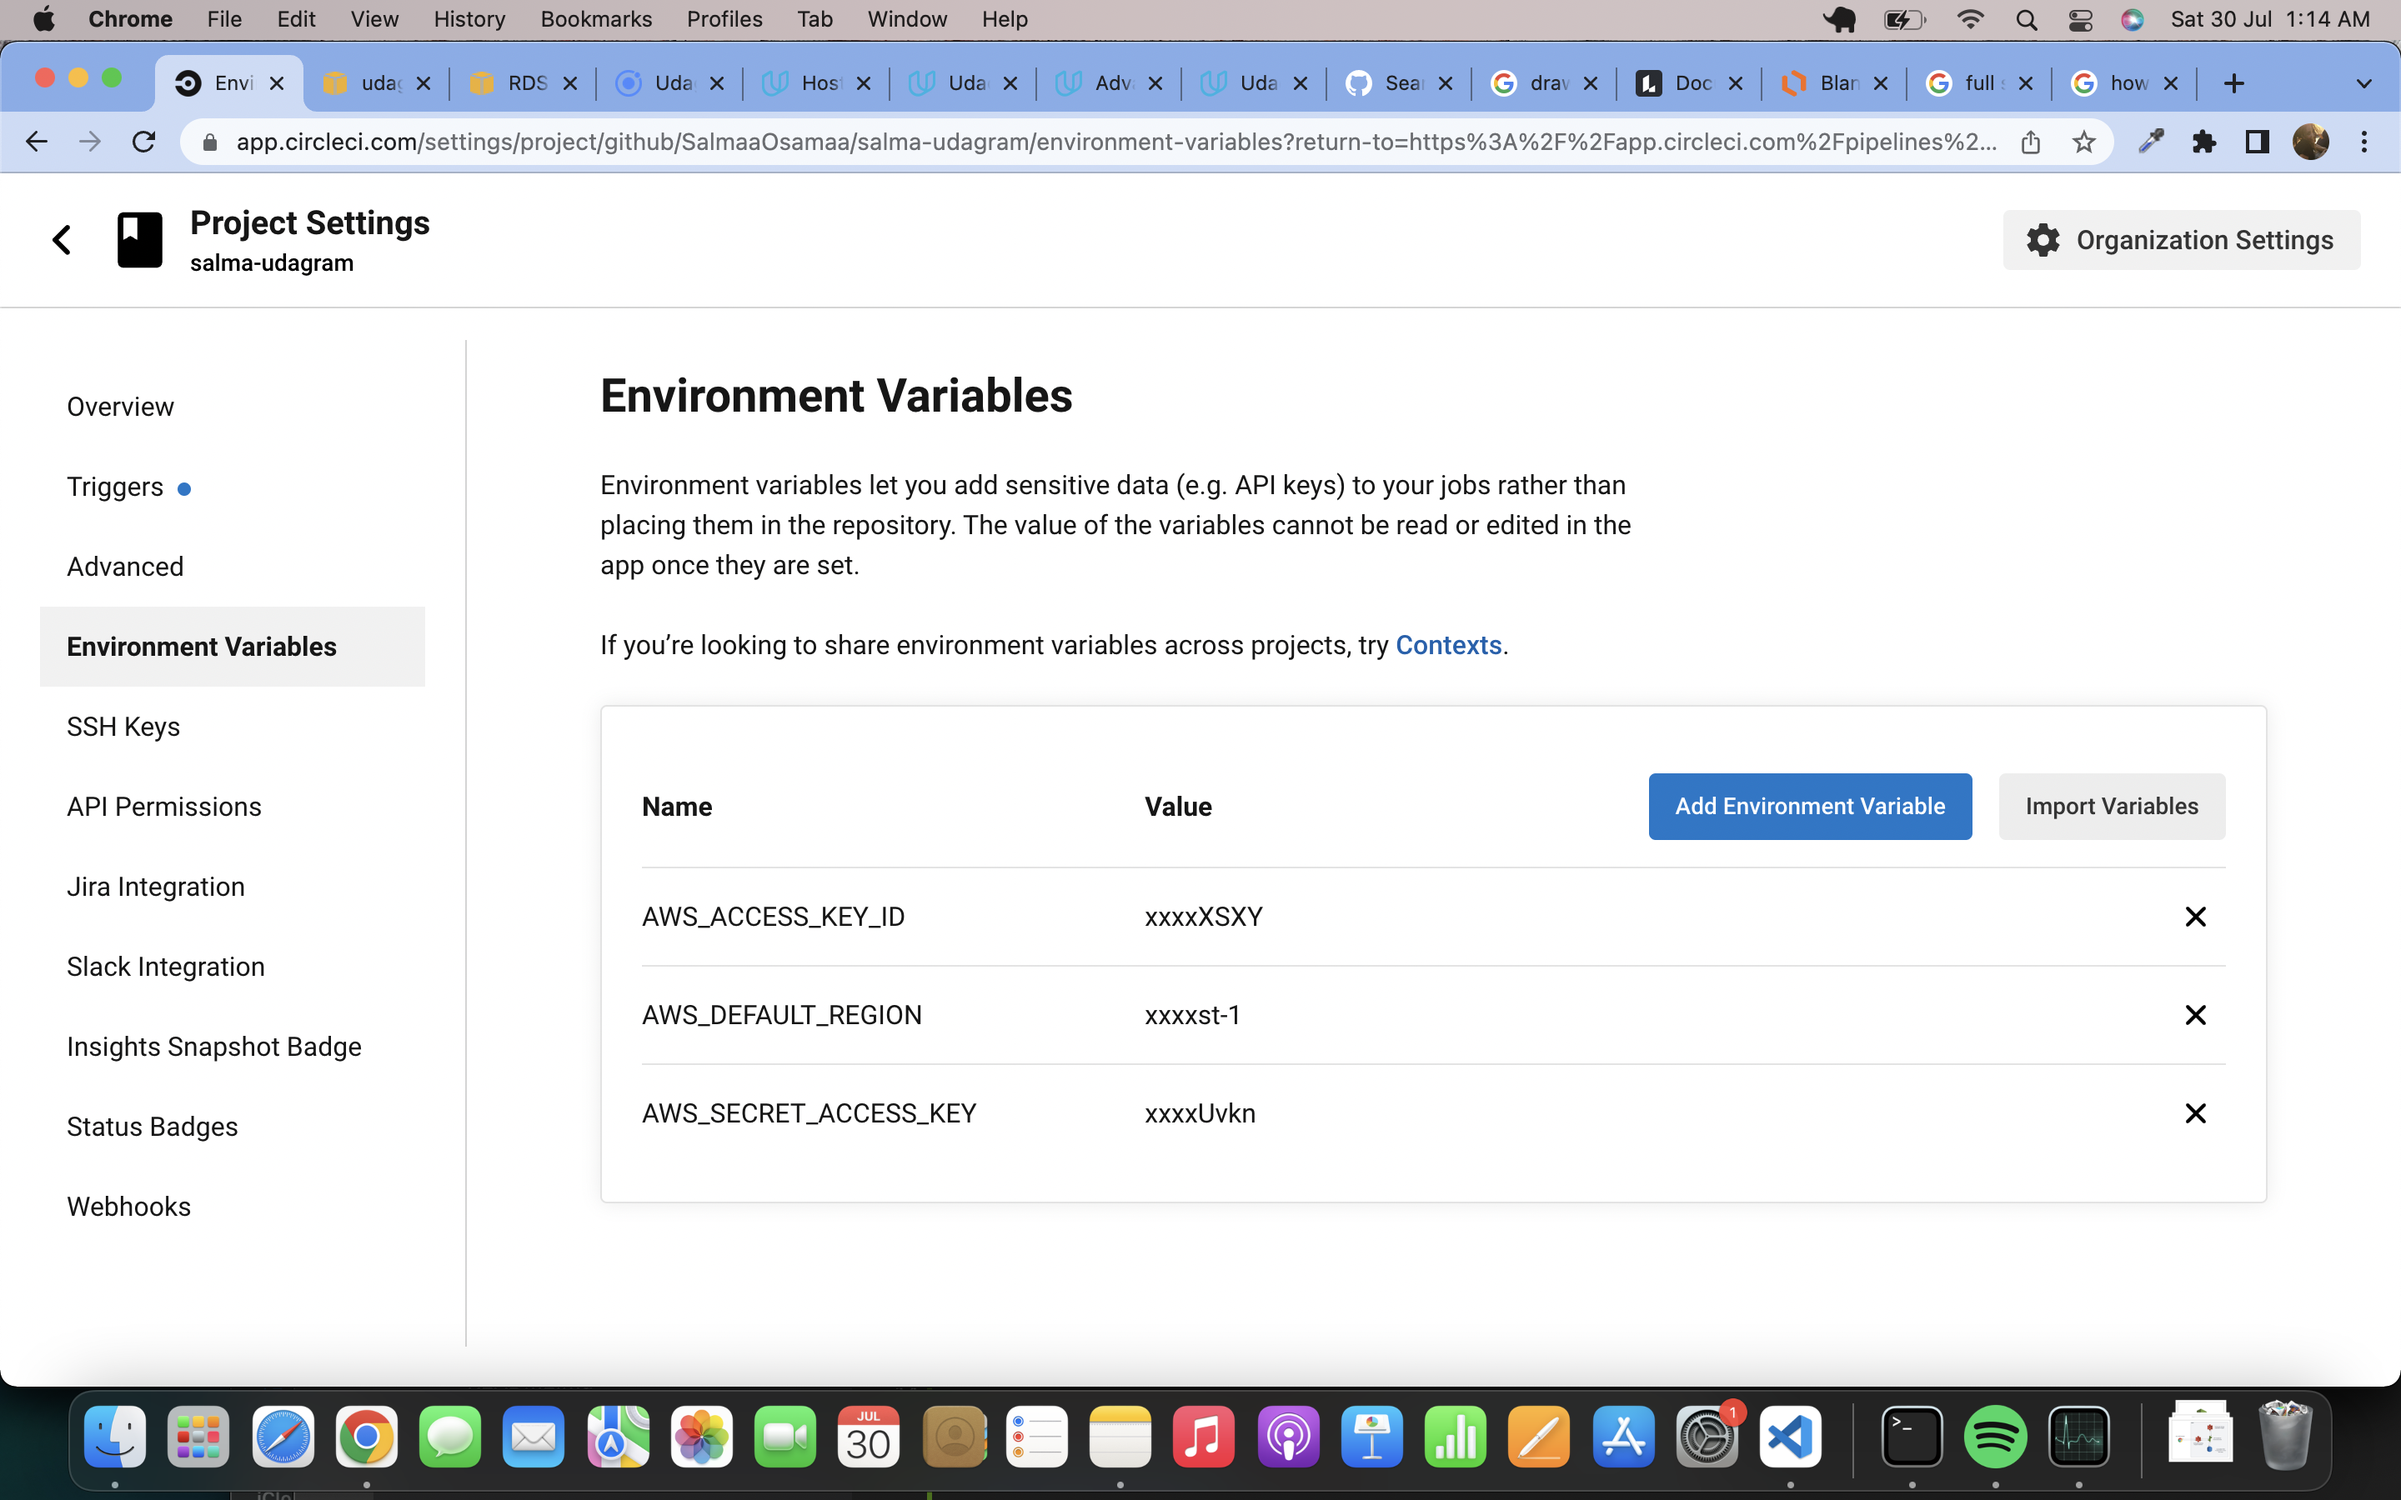
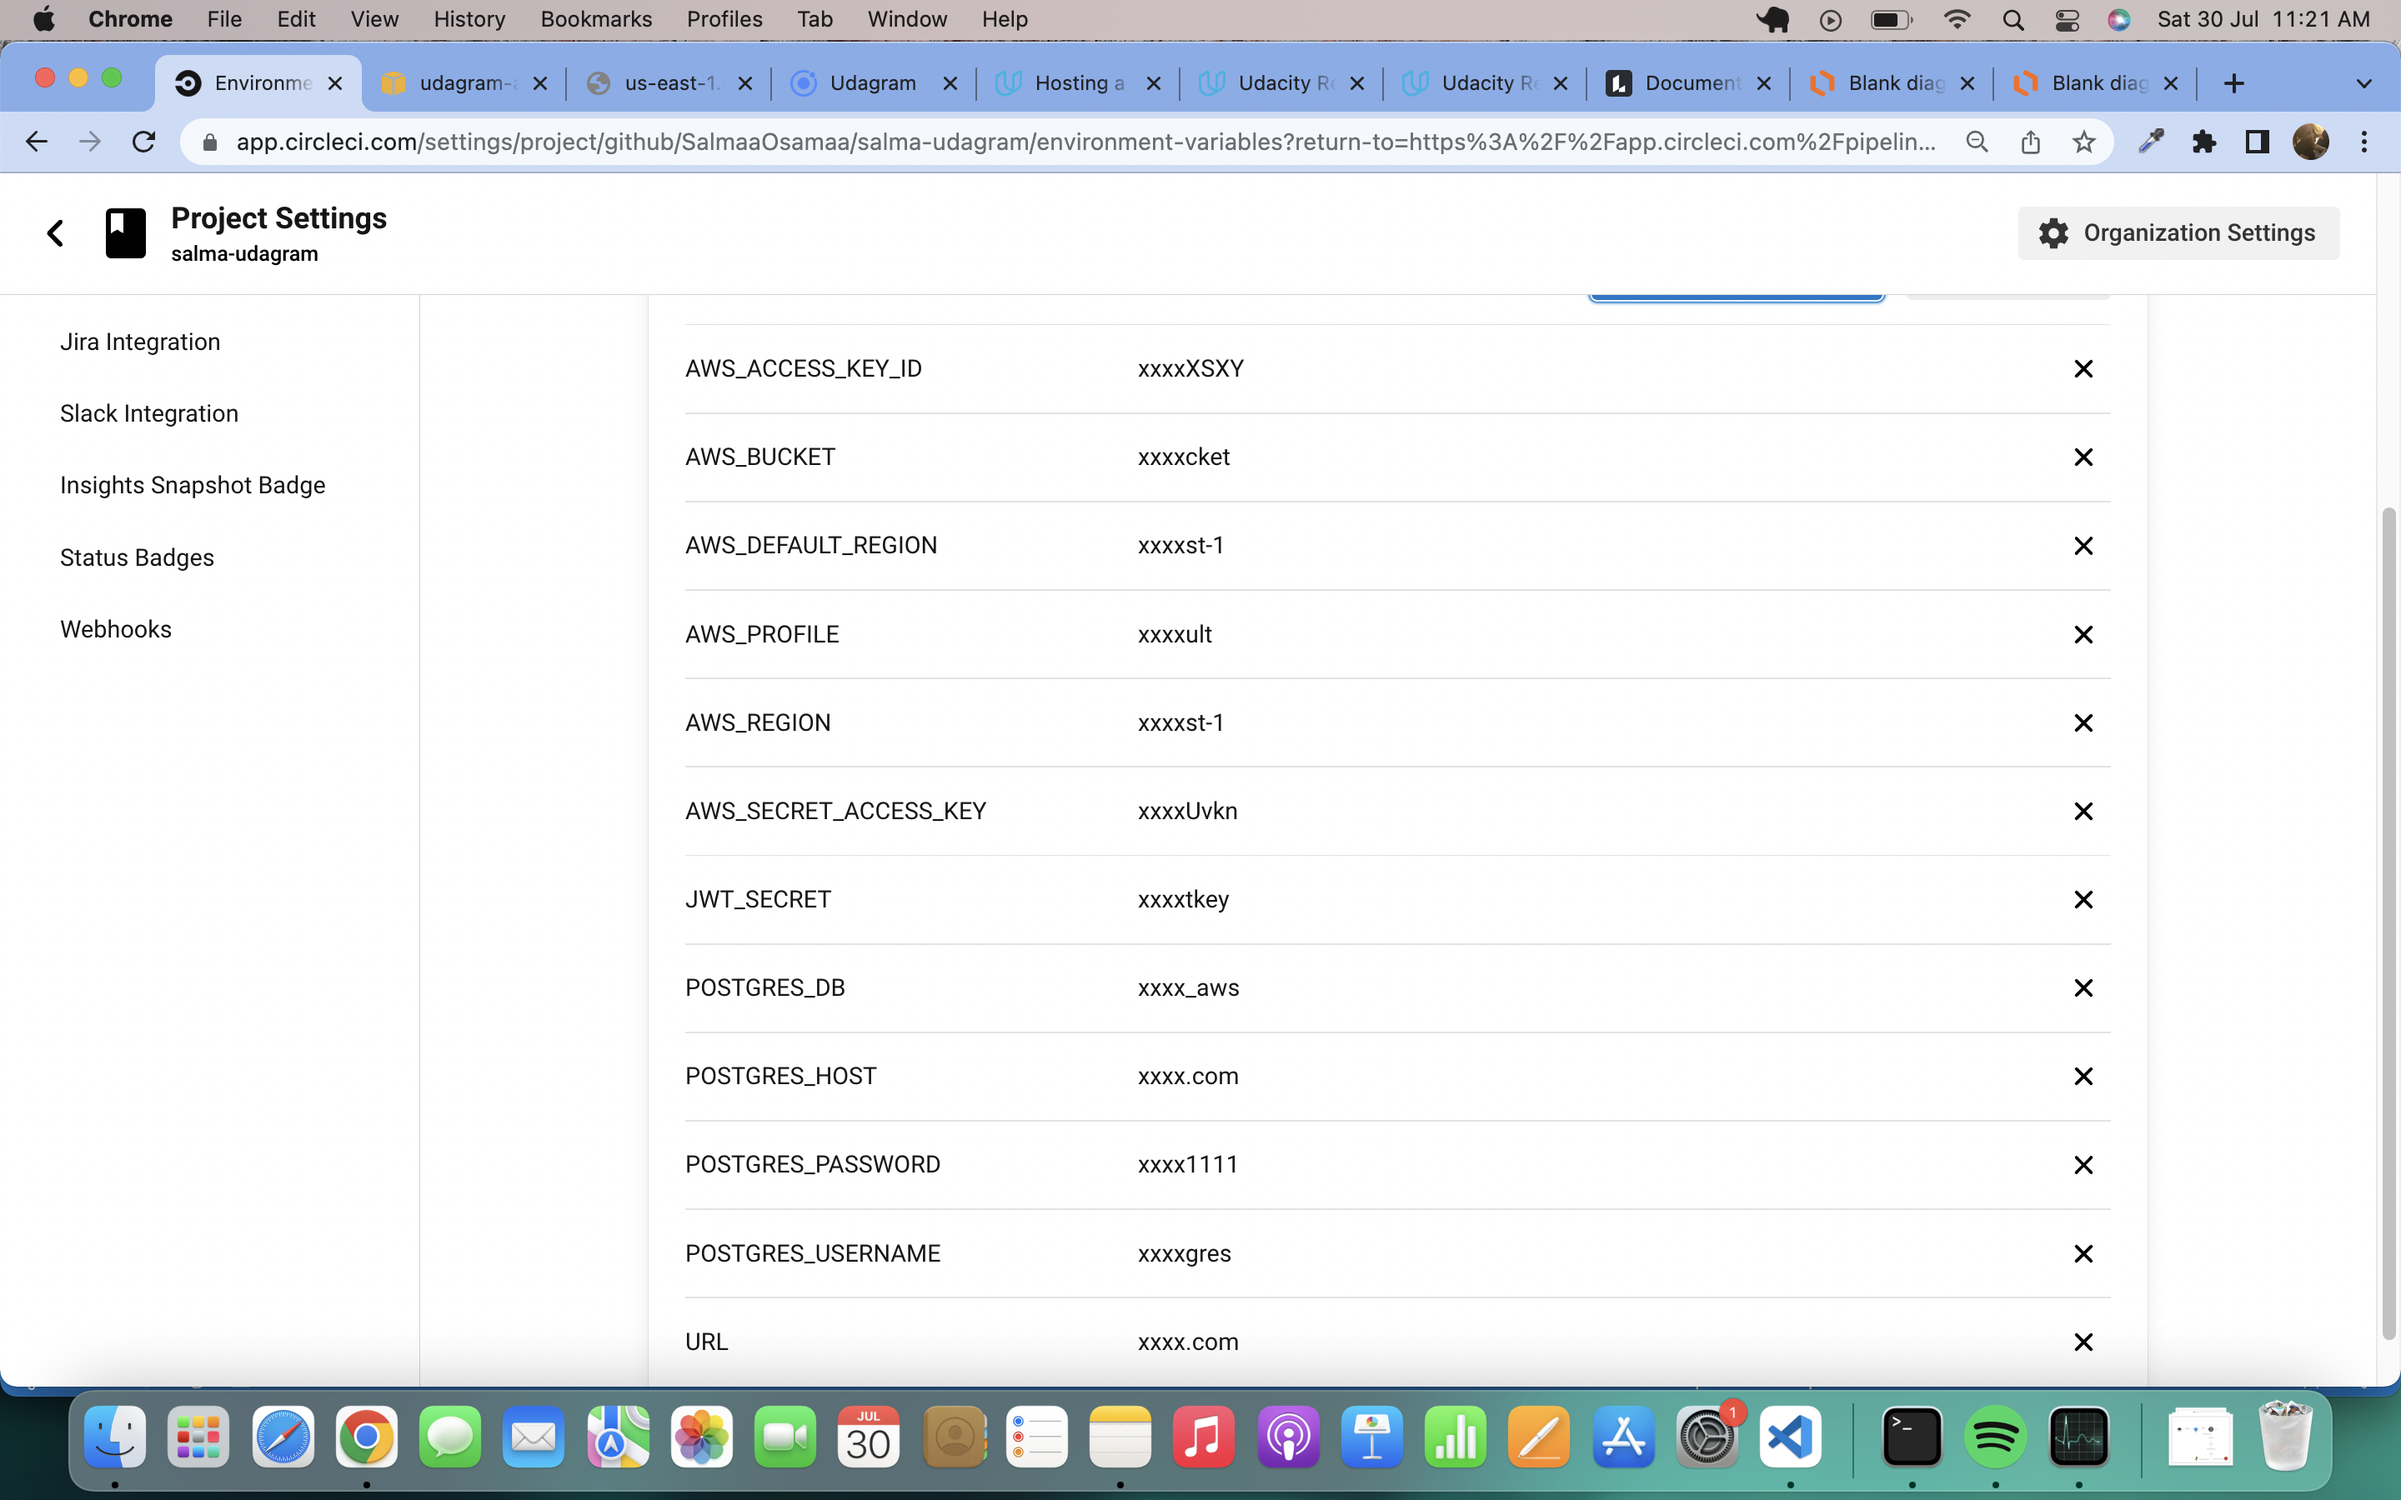
add pipeline diagram and update variables

diff --git a/README.md b/README.md
@@ -38,14 +38,12 @@ added secrets here
 
 ### Architecture
 
-![Architecture](./documentation/images/infra.png)
+![Infrastructure](./documentation/images/infra.png)
+![Pipeline](./documentation/images/pipeline.png)
+
 
 ## Stack Used
 
 - [Angular](https://angular.io/) - Single Page Application Framework
 - [Node](https://nodejs.org) - Javascript Runtime
 - [Express](https://expressjs.com/) - Javascript API Framework
-
-## License
-
-[License](LICENSE.txt)
